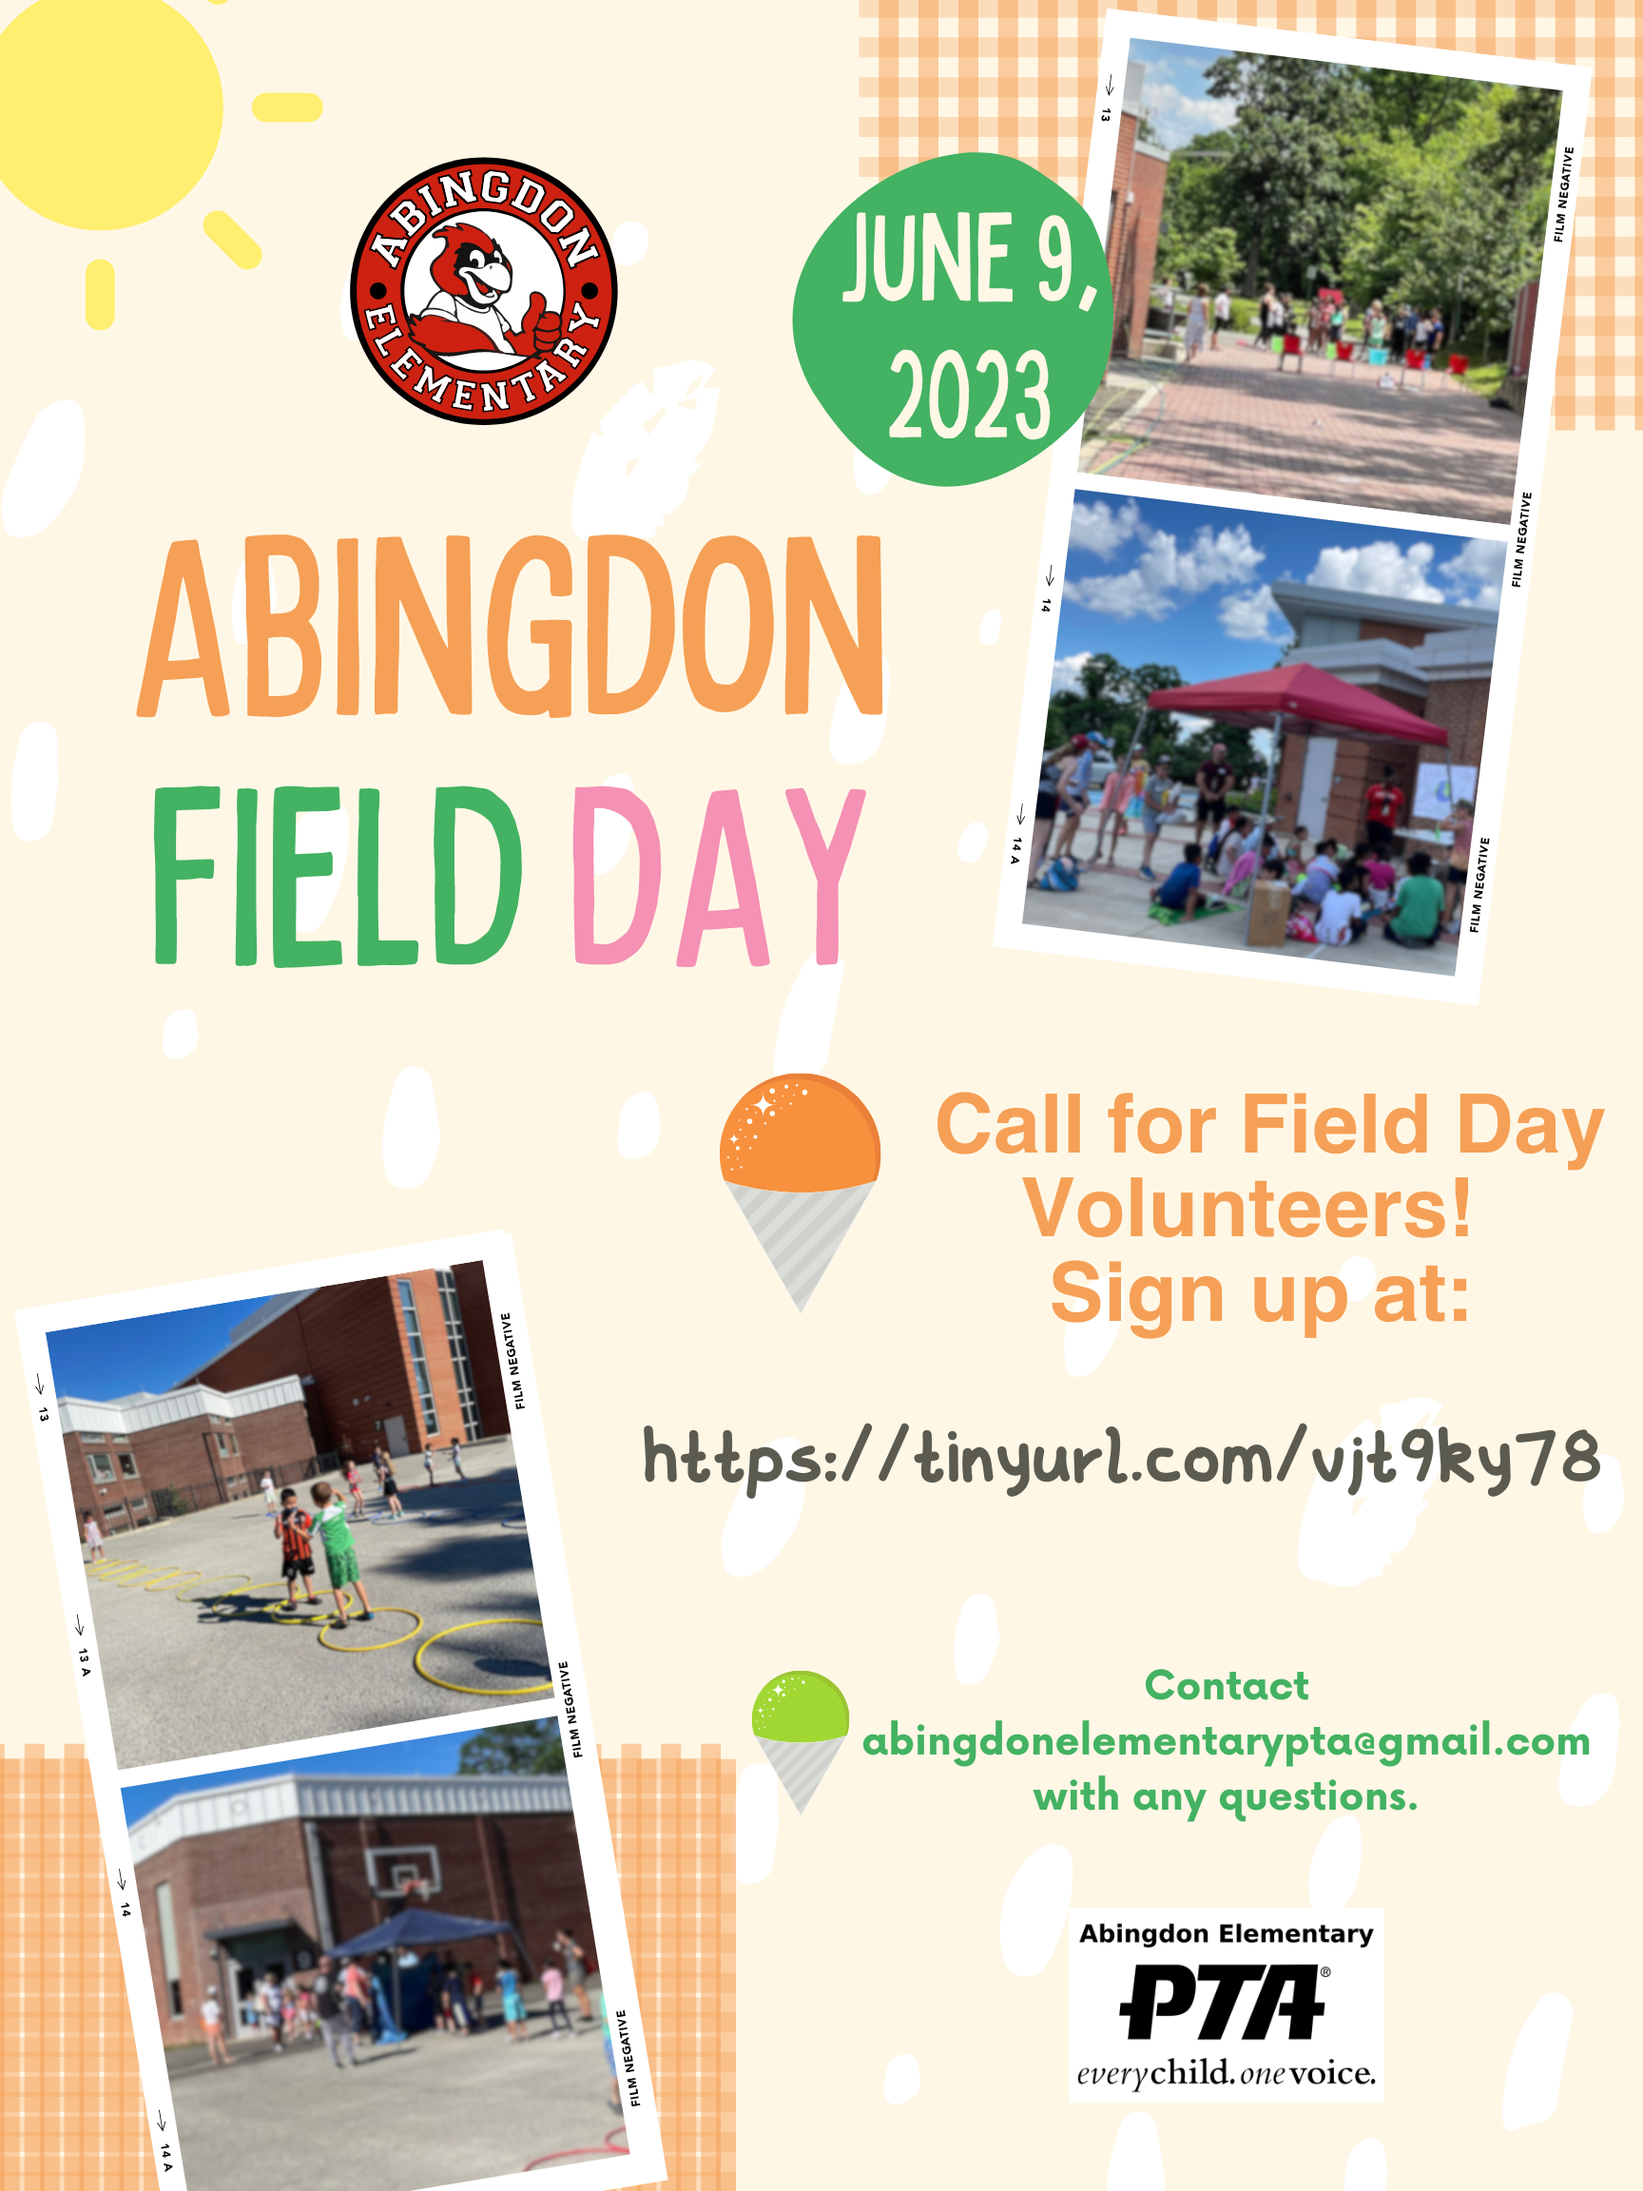
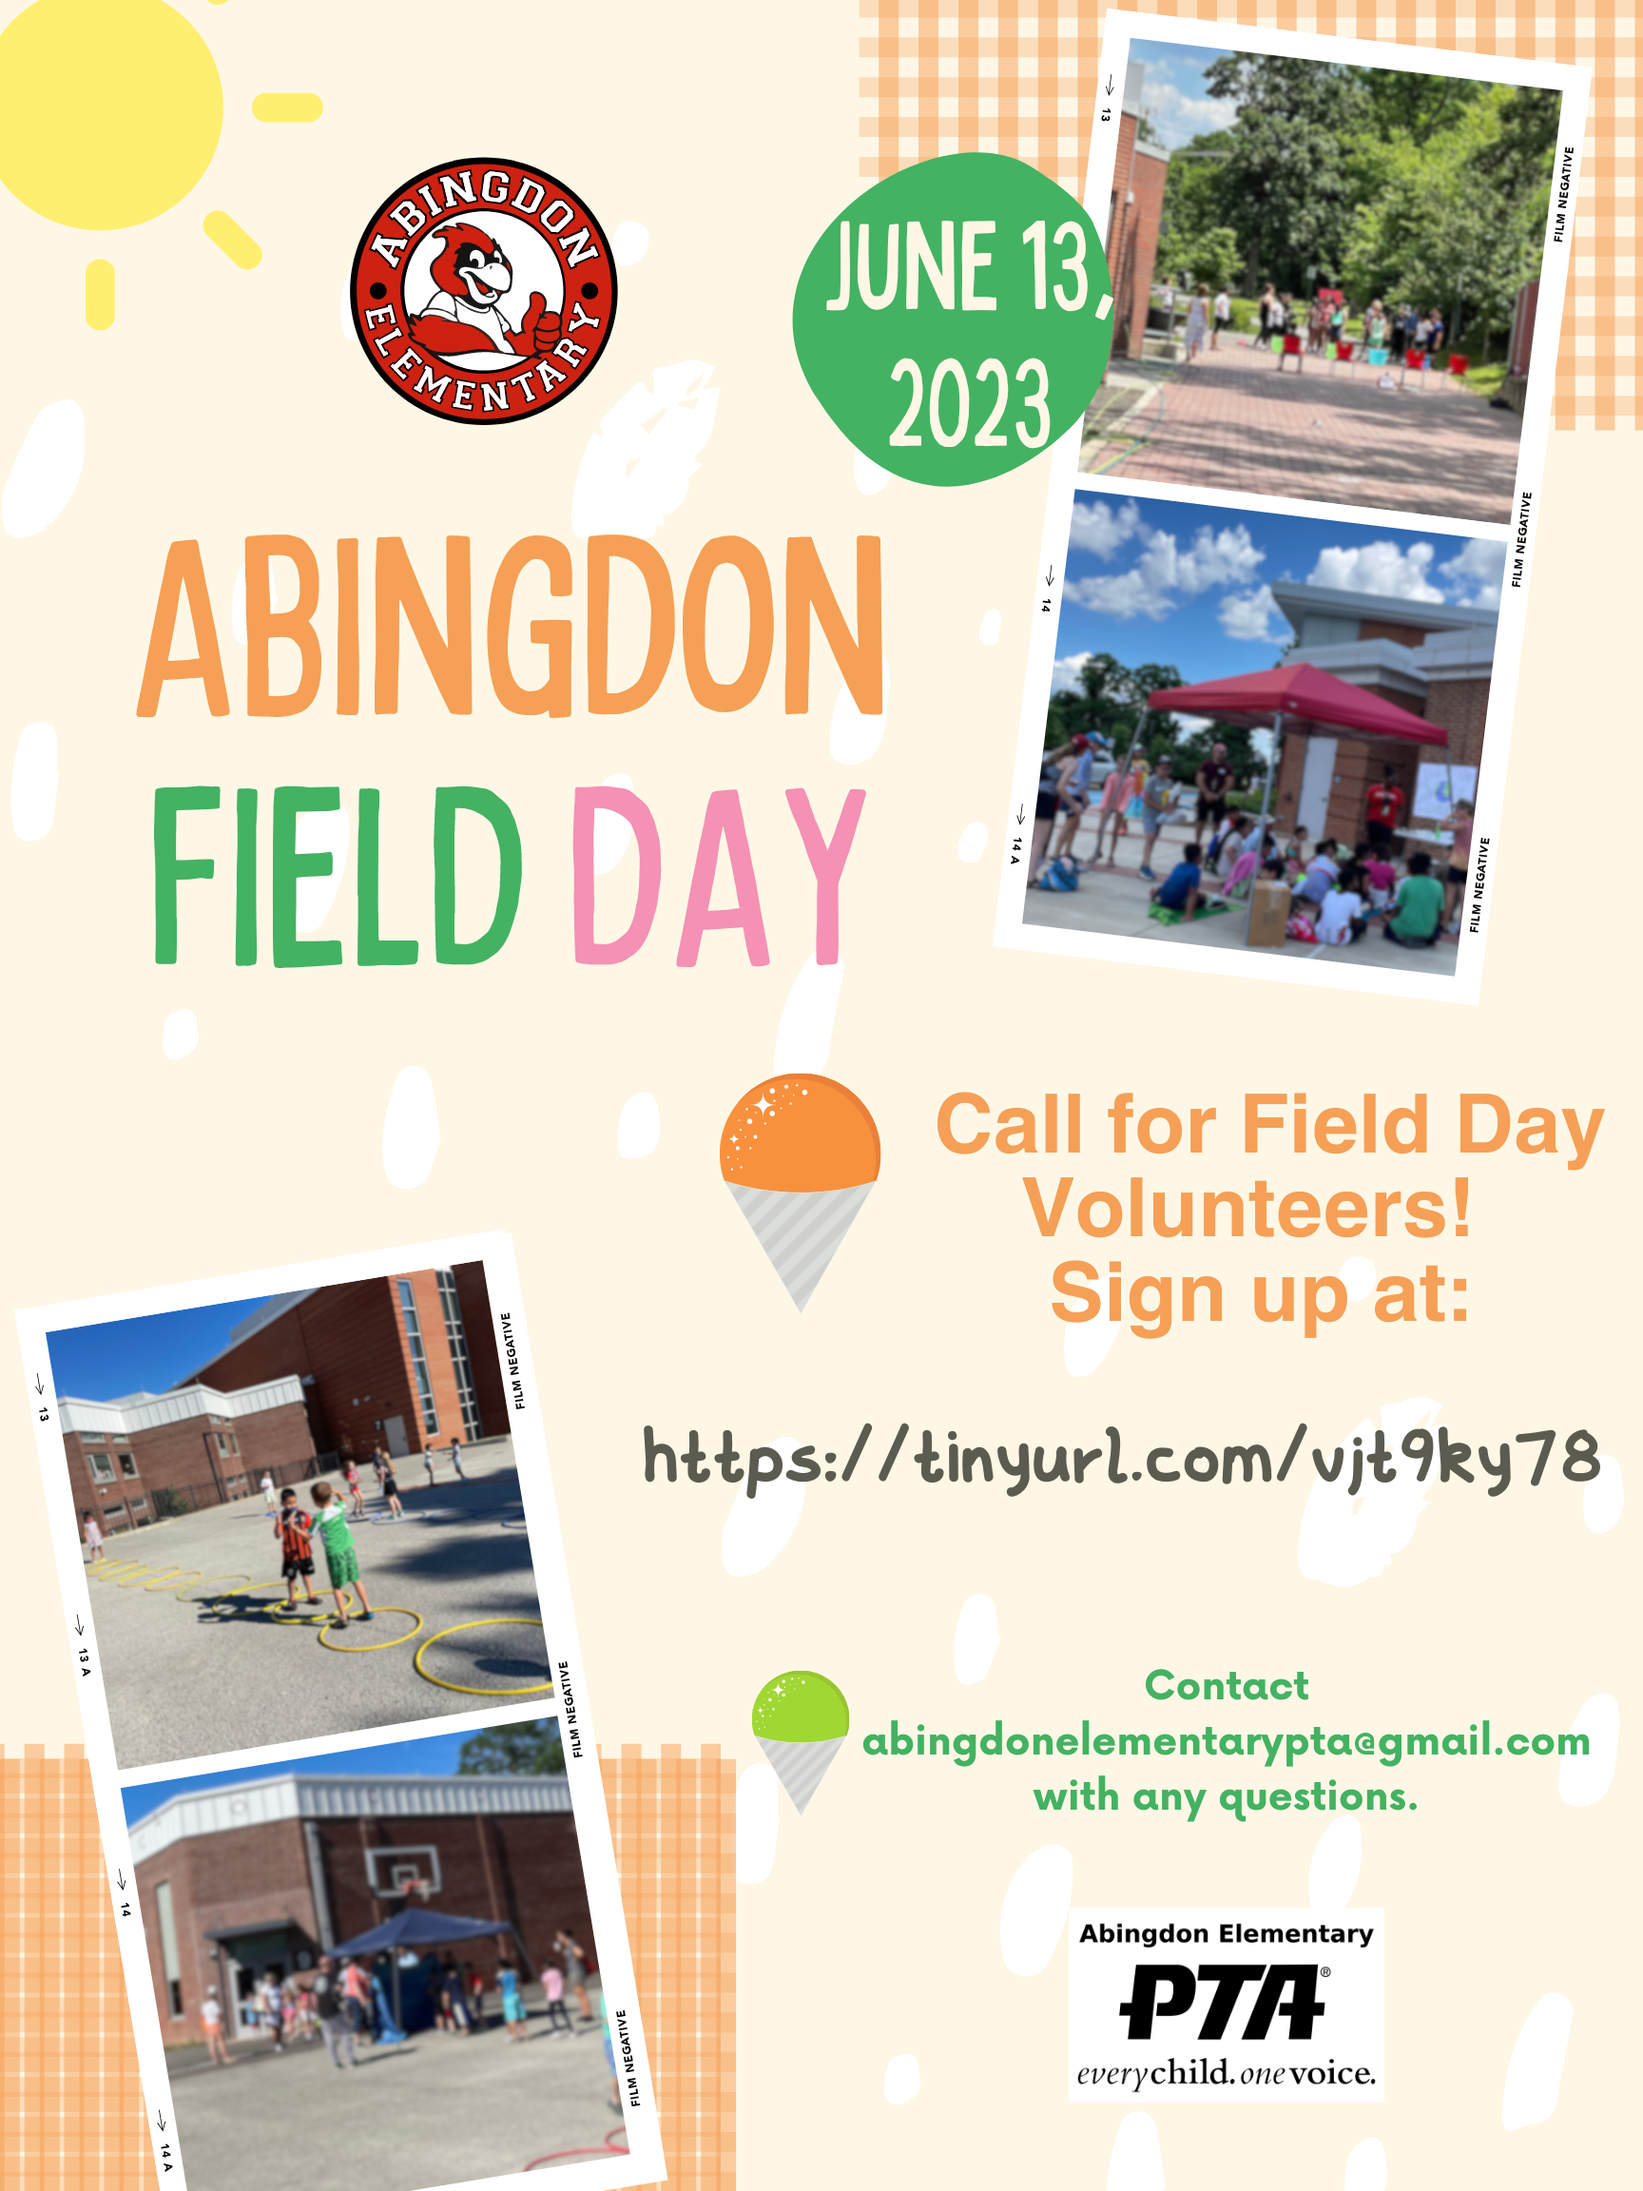
Update Field Day post

Changed region(s): [[0.5, 0.0938, 0.6875, 0.2188]]

diff --git a/content/posts/2023-05-25 Field Day/index.md b/content/posts/2023-05-25 Field Day/index.md
@@ -1,13 +1,18 @@
 --- 
 title: Field Day Volunteers Needed
-summary: The school is looking for volunteers to help make Abingdon's Field Day a success on Friday, June 9.
+summary: The school is looking for volunteers to help make Abingdon's Field Day a success on Tuesday, June 13.
 slug: field day
 date: 2023-05-25T07:00:00-04:00
+lastmod: 2023-06-08T07:00:00-04:00
 categories: "volunteer opportunities"
 images: ["/2023/05/25/field-day/images/flyer-en.png"]
 ---
 
-You're invited to volunteer to help make Abingdon's Field Day a success! The school in need of volunteers to help with the 12 stations that students will rotate through during Field Day on Friday, June 9. There are 3 shifts:
+**6/8 Update**: Field Day has been rescheduled to Tuesday, June 13 due to poor air quality. If you signed up to volunteer, and can volunteer for the same shift(s) on Tuesday, June 13th, that would be terrific.  If you are not able to volunteer on Tuesday, June 13th, then please remove your name from the Signup Genius.  Kindly update the Signup Genius with your availability by Friday, June 9 at 9 am (if possible), so that we can plan accordingly. Thank you!
+
+---
+
+You're invited to volunteer to help make Abingdon's Field Day a success! The school in need of volunteers to help with the 12 stations that students will rotate through during Field Day on ~~Friday, June 9~~ Tuesday, June 13. There are 3 shifts:
 
 - 8:15am-10:15am
 - 10:20am-12:20pm
